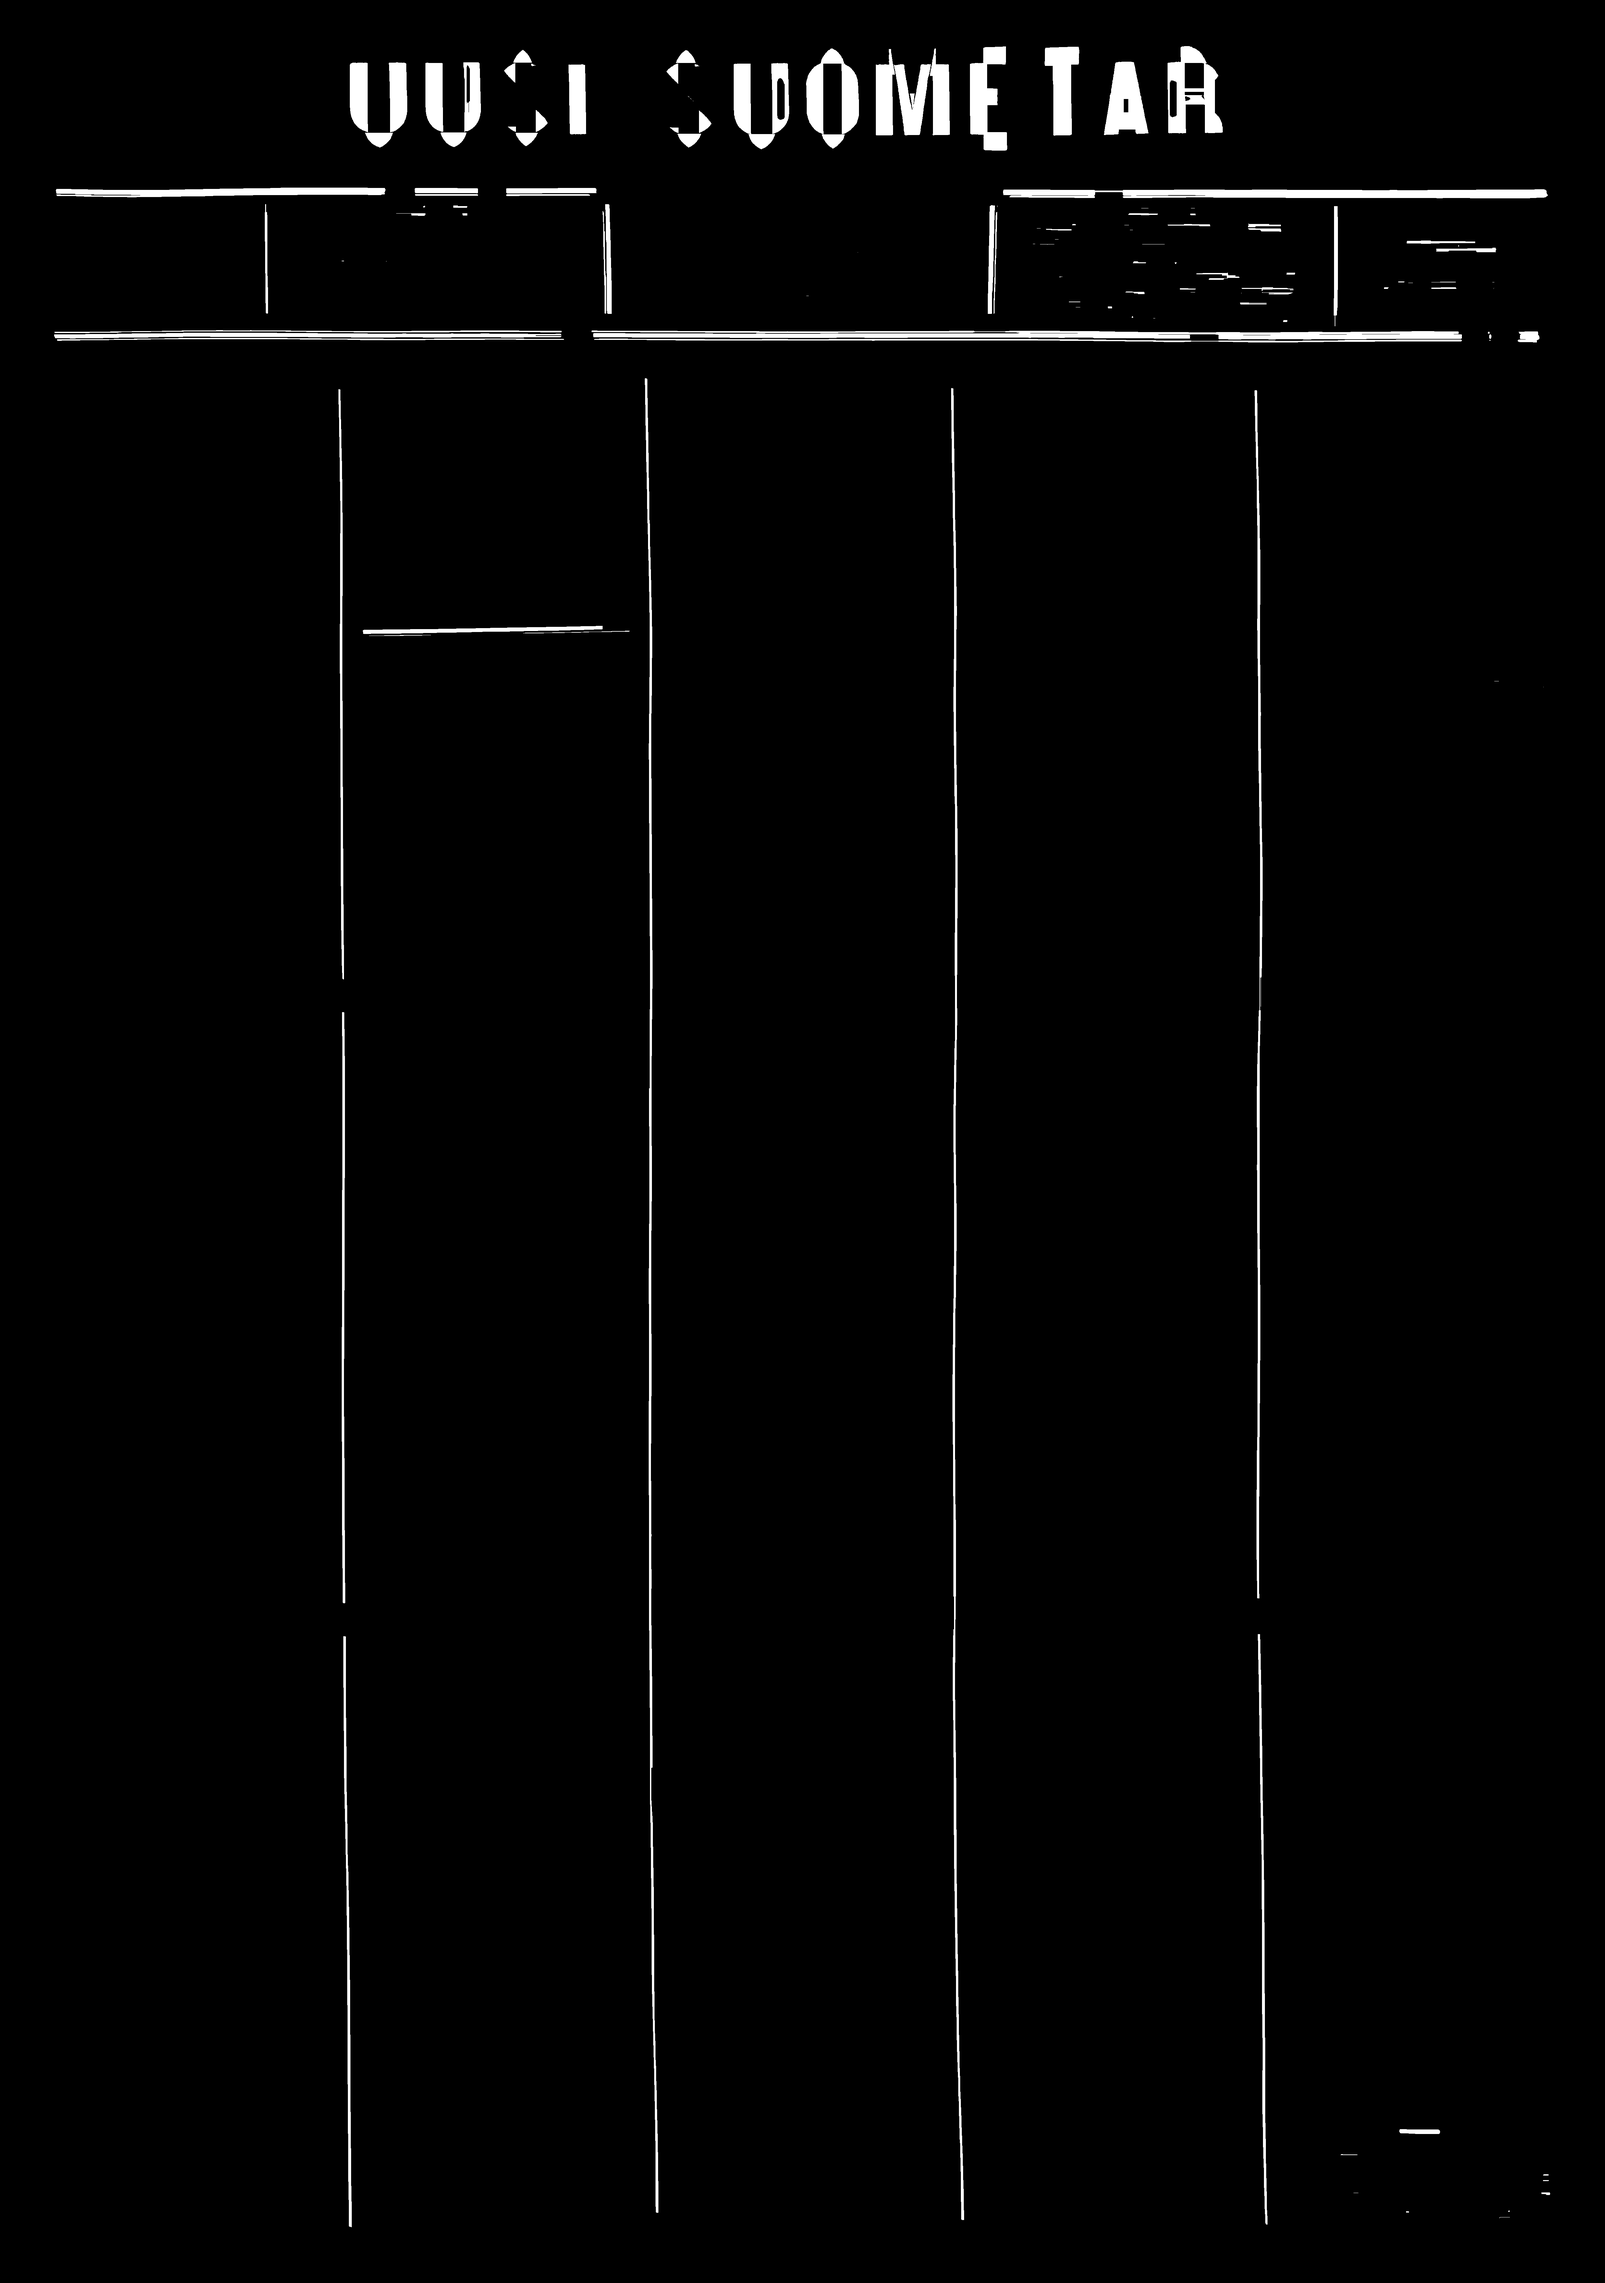
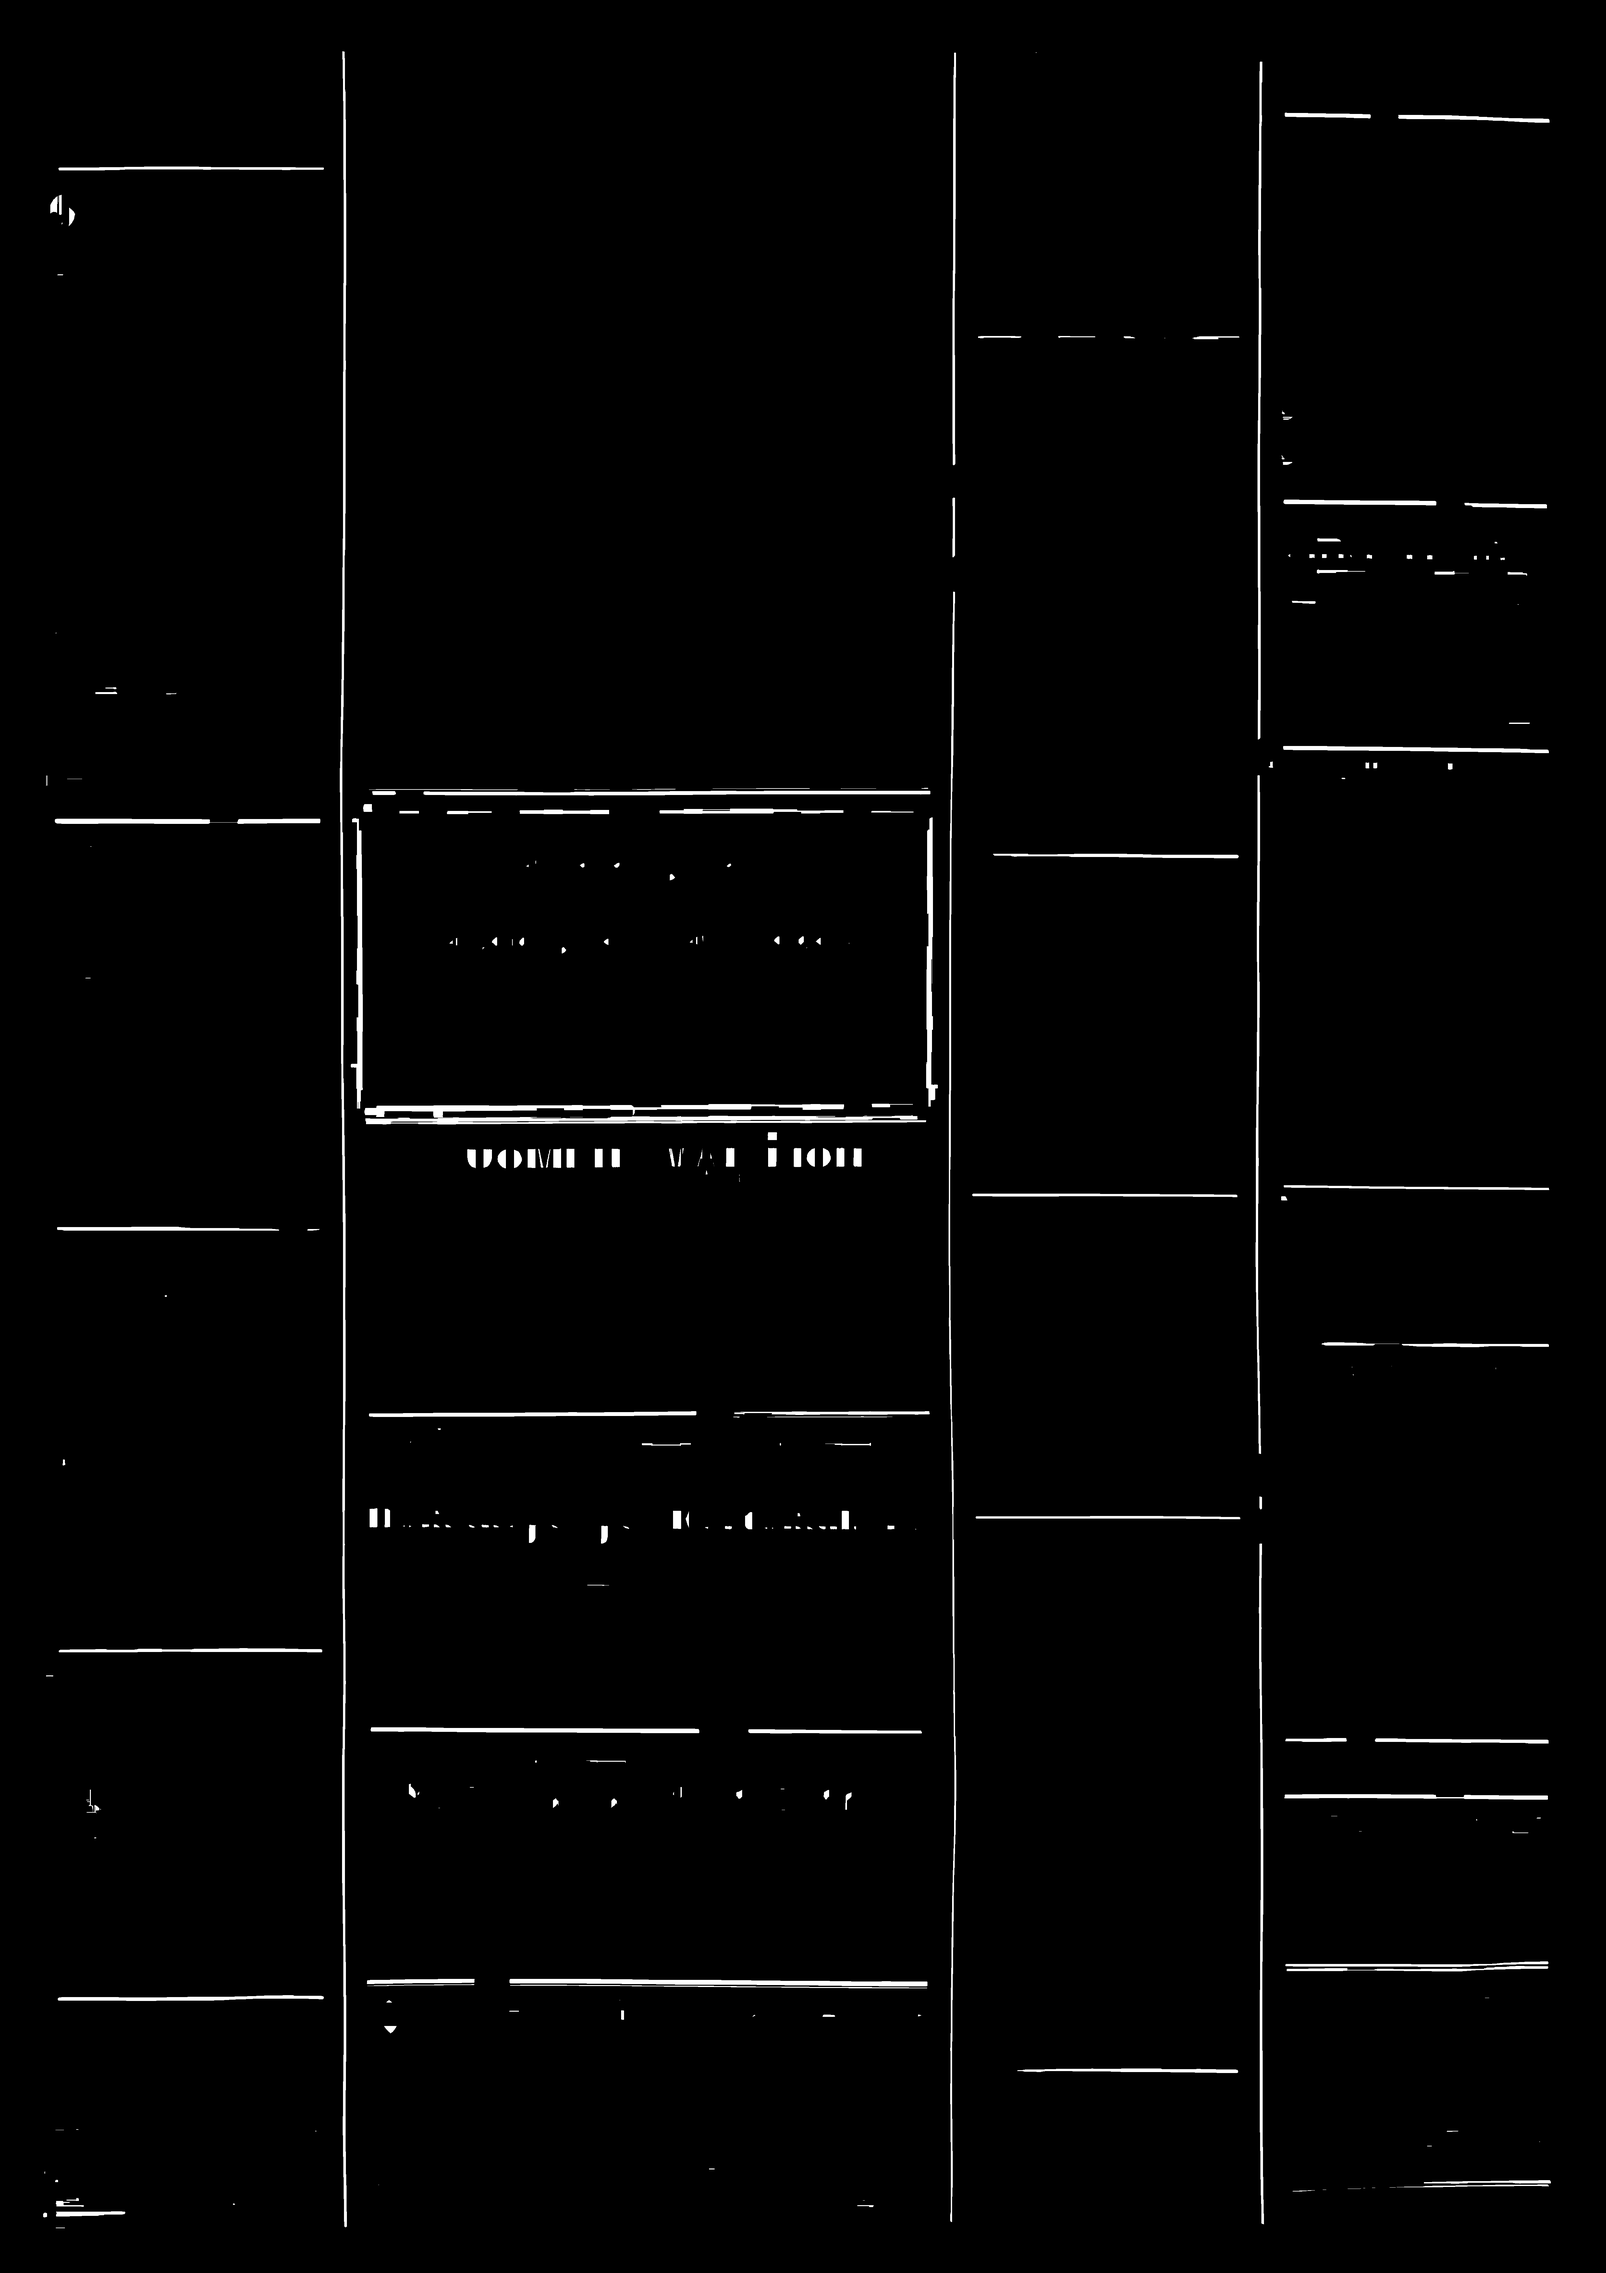
init

diff --git a/seperator_detection/algorithm_based.py b/seperator_detection/algorithm_based.py
@@ -24,7 +24,7 @@ def calcul_length(img_slice, direction):
         for index in range(img_slice.shape[0]):
             result += np.max(img_slice[index, :]) / 255
 
-        if result >= 0.7 * img_slice.shape[0]:
+        if result >= 0.6 * img_slice.shape[0]:
             return True
         else:
             return False
@@ -83,13 +83,23 @@ def analysis_seprator(img,  path):
 def split_image(image_pice: np.array,
                 direction):
     split_location = []
-    for index in tqdm(range(0, image_pice.shape[0], 10)):
-        img_slice = image_pice[index:index+60, :]
-        if calcul_length(img_slice, direction) and len(split_location)==0:
-            split_location.append(index)
-        elif calcul_length(img_slice, direction) and len(split_location)>0:
-            if index - split_location[-1] > 200:
+    if direction == 'shuiping':
+        for index in tqdm(range(0, image_pice.shape[0], 30)):
+
+                img_slice = image_pice[index:index+60, :]
+                if calcul_length(img_slice, direction) and len(split_location)==0:
+                    split_location.append(index)
+                elif calcul_length(img_slice, direction) and len(split_location)>0:
+                    if index - split_location[-1] > 200:
+                        split_location.append(index)
+    else:
+        for index in tqdm(range(0, image_pice.shape[1], 30)):
+            img_slice = image_pice[:, index:index + 60]
+            if calcul_length(img_slice, direction) and len(split_location) == 0:
                 split_location.append(index)
+            elif calcul_length(img_slice, direction) and len(split_location) > 0:
+                if index - split_location[-1] > 200:
+                    split_location.append(index)
 
     return split_location
 
@@ -135,6 +145,7 @@ def split_link(image_path:str):
     kernel = cv2.getStructuringElement(cv2.MORPH_RECT, (1, vert_k))
     verts = ~cv2.dilate(binary, kernel, iterations=1)
     borders = cv2.bitwise_or(hors, verts)
+    cv2.imwrite("temp/borders .png", borders)
     first_shuiping_split_points = split_image(borders, 'shuiping')
     first_shuiping_group = {'image_pieces': [],
                             'annotation': [],
@@ -169,12 +180,129 @@ def split_link(image_path:str):
             group_temp.append(annotation)
 
     first_shuiping_group['annotation'].append(group_temp)
+    # 开始第一次垂直分割
+    first_chuizhi_split = []
+    for index in range(len(first_shuiping_group['annotation'])):
+        result_piece = {'search': index,
+                        'image_pieces': [],
+                        'start_value': [],
+                        'annotation': []}
+        image_piece = first_shuiping_group['image_pieces'][index]
+        annotation_piece = first_shuiping_group['annotation'][index]
+        first_chuizhi_split_points = split_image(image_piece, 'chuizhi')
+        for index, value in enumerate(first_chuizhi_split_points):
+            group_temp = []
+            if index == 0:
+                result_piece['image_pieces'].append(image_piece[:, :value])
+                result_piece['start_value'].append([0, value])
+                for annotation in annotation_piece:
+                    if annotation['center'][0] <= value:
+                        group_temp.append(annotation)
+
+            elif index != 0 and index <= len(first_shuiping_split_points)-1:
+                result_piece['image_pieces'].append(
+                    image_piece[:, first_chuizhi_split_points[index-1]:value])
+                result_piece['start_value'].append([first_chuizhi_split_points[index-1], value])
+                for annotation in annotation_piece:
+                    if first_chuizhi_split_points[index-1] < annotation['center'][0] <= value:
+                        group_temp.append(annotation)
+
+            result_piece['image_pieces'].append(image_piece[:, first_chuizhi_split_points[-1]:])
+            result_piece['start_value'].append([first_chuizhi_split_points[-1], borders.shape[1]])
+            for annotation in annotation_piece:
+                if annotation['center'][0] >= first_chuizhi_split_points[-1]:
+                    group_temp.append(annotation)
+
+            result_piece['annotation'].append(group_temp)
+
+        first_chuizhi_split.append(result_piece)
+
+
+
 
     return
 
+def split_link_by_name(image_path:str):
+    links = []
+    xml_reader = XmlProcessor(0, image_path.replace('jpg', 'xml'))
+    annotation_list = xml_reader.get_annotation()
+    for annotation in annotation_list:
+        annotation['center'] = ([(x + y) / 2 for x, y in
+                                 zip(annotation['bbox'][0], annotation['bbox'][2])])
+    image = cv2.imread(image_path)
+    image_to_draw = Image.open(image_path).convert('RGB')
+    drawer = ImageDraw.Draw(image_to_draw, 'RGB')
+    gray = cv2.cvtColor(image, cv2.COLOR_RGB2GRAY)
+    ret, binary = cv2.threshold(gray, 200, 255, cv2.THRESH_BINARY)
+    cv2.imwrite("temp/gray.png", binary)
+    h, w = binary.shape
+    hors_k = int(math.sqrt(w) * 1.2)
+    vert_k = int(math.sqrt(h) * 1.2)
+    kernel = cv2.getStructuringElement(cv2.MORPH_RECT, (hors_k, 1))
+    hors = ~cv2.dilate(binary, kernel, iterations=1)
+    kernel = cv2.getStructuringElement(cv2.MORPH_RECT, (1, vert_k))
+    verts = ~cv2.dilate(binary, kernel, iterations=1)
+    borders = cv2.bitwise_or(hors, verts)
+    cv2.imwrite("temp/borders .png", borders)
+    shuiping_all = [[0, 0, borders.shape[1], 0],
+                    [0, borders.shape[0], borders.shape[1], borders.shape[0]]]
+    chuizhi_all = [[0, 0, 0, borders.shape[0]],
+                   [borders.shape[1], 0, borders.shape[1], borders.shape[0]]]
+    whole_page_shuiping = split_image(borders, 'shuiping')
+    image_piece_after_whole_shuiping = []
+    for index, unit in enumerate(whole_page_shuiping):
+        shuiping_all.append([0, unit, borders.shape[1], unit])
+        if index == 0:
+            image_piece = borders[:unit, :]
+            bbox = [0, 0, borders.shape[1], unit]
+            image_piece_after_whole_shuiping.append({'image_piece': image_piece,
+                                                     'bbox': bbox})
+
+        elif index > 0 and index <= len(whole_page_shuiping)-1:
+            image_piece = borders[whole_page_shuiping[index-1]:unit, :]
+            bbox = [0, whole_page_shuiping[index-1], borders.shape[1], unit]
+            image_piece_after_whole_shuiping.append({'image_piece': image_piece,
+                                                     'bbox': bbox})
+
+    image_piece = borders[whole_page_shuiping[-1]:, :]
+    bbox = [0, whole_page_shuiping[-1], borders.shape[1], borders.shape[0]]
+    image_piece_after_whole_shuiping.append({'image_piece': image_piece,
+                                             'bbox': bbox})
+    # 第一次垂直分割
+    inter_result_1_chuizhi = []
+    for unit in image_piece_after_whole_shuiping:
+        seperator = split_image(unit['image_piece'], 'chuizhi')
+        for index, seperator_unit in enumerate(seperator):
+            chuizhi_all.append([seperator_unit,
+                                unit['bbox'][1],
+                                seperator_unit,
+                                unit['bbox'][3],])
+            if index == 0:
+                bbox = [0, unit['bbox'][1], seperator_unit, unit['bbox'][3]]
+                image_piece = unit['image_piece'][:, :seperator_unit]
+                inter_result_1_chuizhi.append({'bbox': bbox,
+                                               'image_piece': image_piece})
+            elif index > 0 and index <= len(seperator) - 1:
+                bbox = [seperator[index-1], unit['bbox'][1], seperator_unit, unit['bbox'][3]]
+                image_piece = unit['image_piece'][:, seperator[index-1]:seperator_unit]
+                inter_result_1_chuizhi.append({'bbox': bbox,
+                                               'image_piece': image_piece})
+
+        bbox = [seperator[-1], unit['bbox'][1],  borders.shape[1], unit['bbox'][3]]
+        image_piece = unit['image_piece'][:, seperator[-1]:]
+        inter_result_1_chuizhi.append({'bbox': bbox,
+                                       'image_piece': image_piece})
+    for x in inter_result_1_chuizhi:
+        drawer.rectangle(x['bbox'], outline='green', width=10)
+    image_to_draw.save("temp/first_chuizhi.png")
+
+    return
+
+
+
 if __name__ == "__main__":
     image_path = r'../article_dataset/AS_TrainingSet_NLF_NewsEye_v2/576445_0003_23676257.jpg'
-    split_link(image_path)
+    split_link_by_name(image_path)
 
     # for unit in first_shuiping_group['annotation'][0]:
     #     drawer.rectangle(unit['bbox'][0] + unit['bbox'][2],

diff --git a/seperator_detection/bernet.py b/seperator_detection/bernet.py
@@ -4,10 +4,27 @@ from matplotlib import pyplot as plt
 from skimage.io import imread
 import numpy as np
 from PIL import Image, ImageDraw
+import cv2
+import math
 
-def line_detect(img_path='sep_dataset/test/fi/images/576443_0001_23676242.jpg'):
+def line_detect(img_path=r'../article_dataset/AS_TrainingSet_NLF_NewsEye_v2/576461_0004_23676337.jpg'):
+    image = cv2.imread(img_path)
+    image_to_draw = Image.open(img_path).convert('RGB')
+    drawer = ImageDraw.Draw(image_to_draw, 'RGB')
+    gray = cv2.cvtColor(image, cv2.COLOR_RGB2GRAY)
+    ret, binary = cv2.threshold(gray, 200, 255, cv2.THRESH_BINARY)
+    cv2.imwrite("temp/gray.png", binary)
+    h, w = binary.shape
+    hors_k = int(math.sqrt(w) * 1.2)
+    vert_k = int(math.sqrt(h) * 1.2)
+    kernel = cv2.getStructuringElement(cv2.MORPH_RECT, (hors_k, 1))
+    hors = ~cv2.dilate(binary, kernel, iterations=1)
+    kernel = cv2.getStructuringElement(cv2.MORPH_RECT, (1, vert_k))
+    verts = ~cv2.dilate(binary, kernel, iterations=1)
+    borders = cv2.bitwise_or(hors, verts)
+    cv2.imwrite("temp/borders.png", borders)
     img_in = imread(img_path)
-    lines = line_detector(img_in, mode='vector', blumi=200, llumi=200, min_len=200)
+    lines = line_detector(borders, mode='vector', blumi=200, llumi=200, min_len=200)
     image = Image.open(img_path).convert('RGB')
     draw = ImageDraw.Draw(image, "RGB")
     for line in lines:
